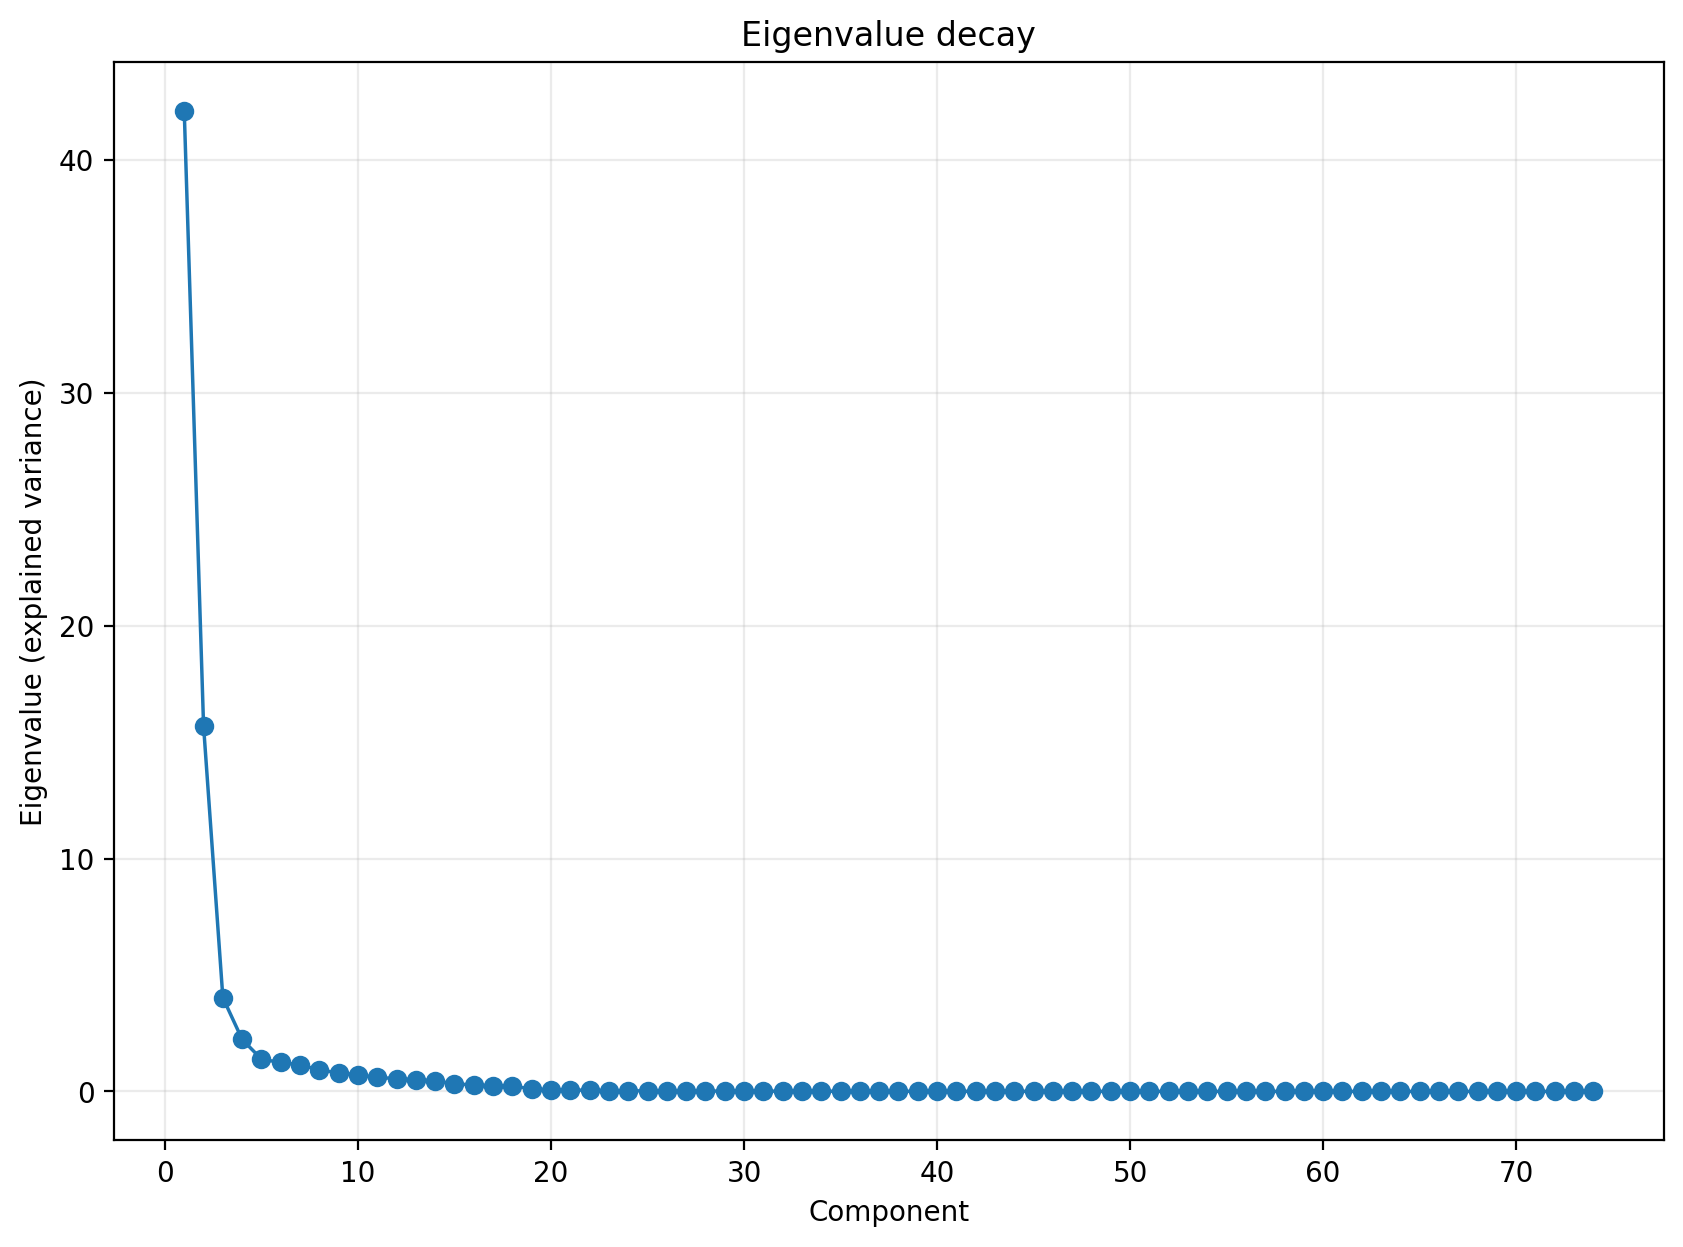
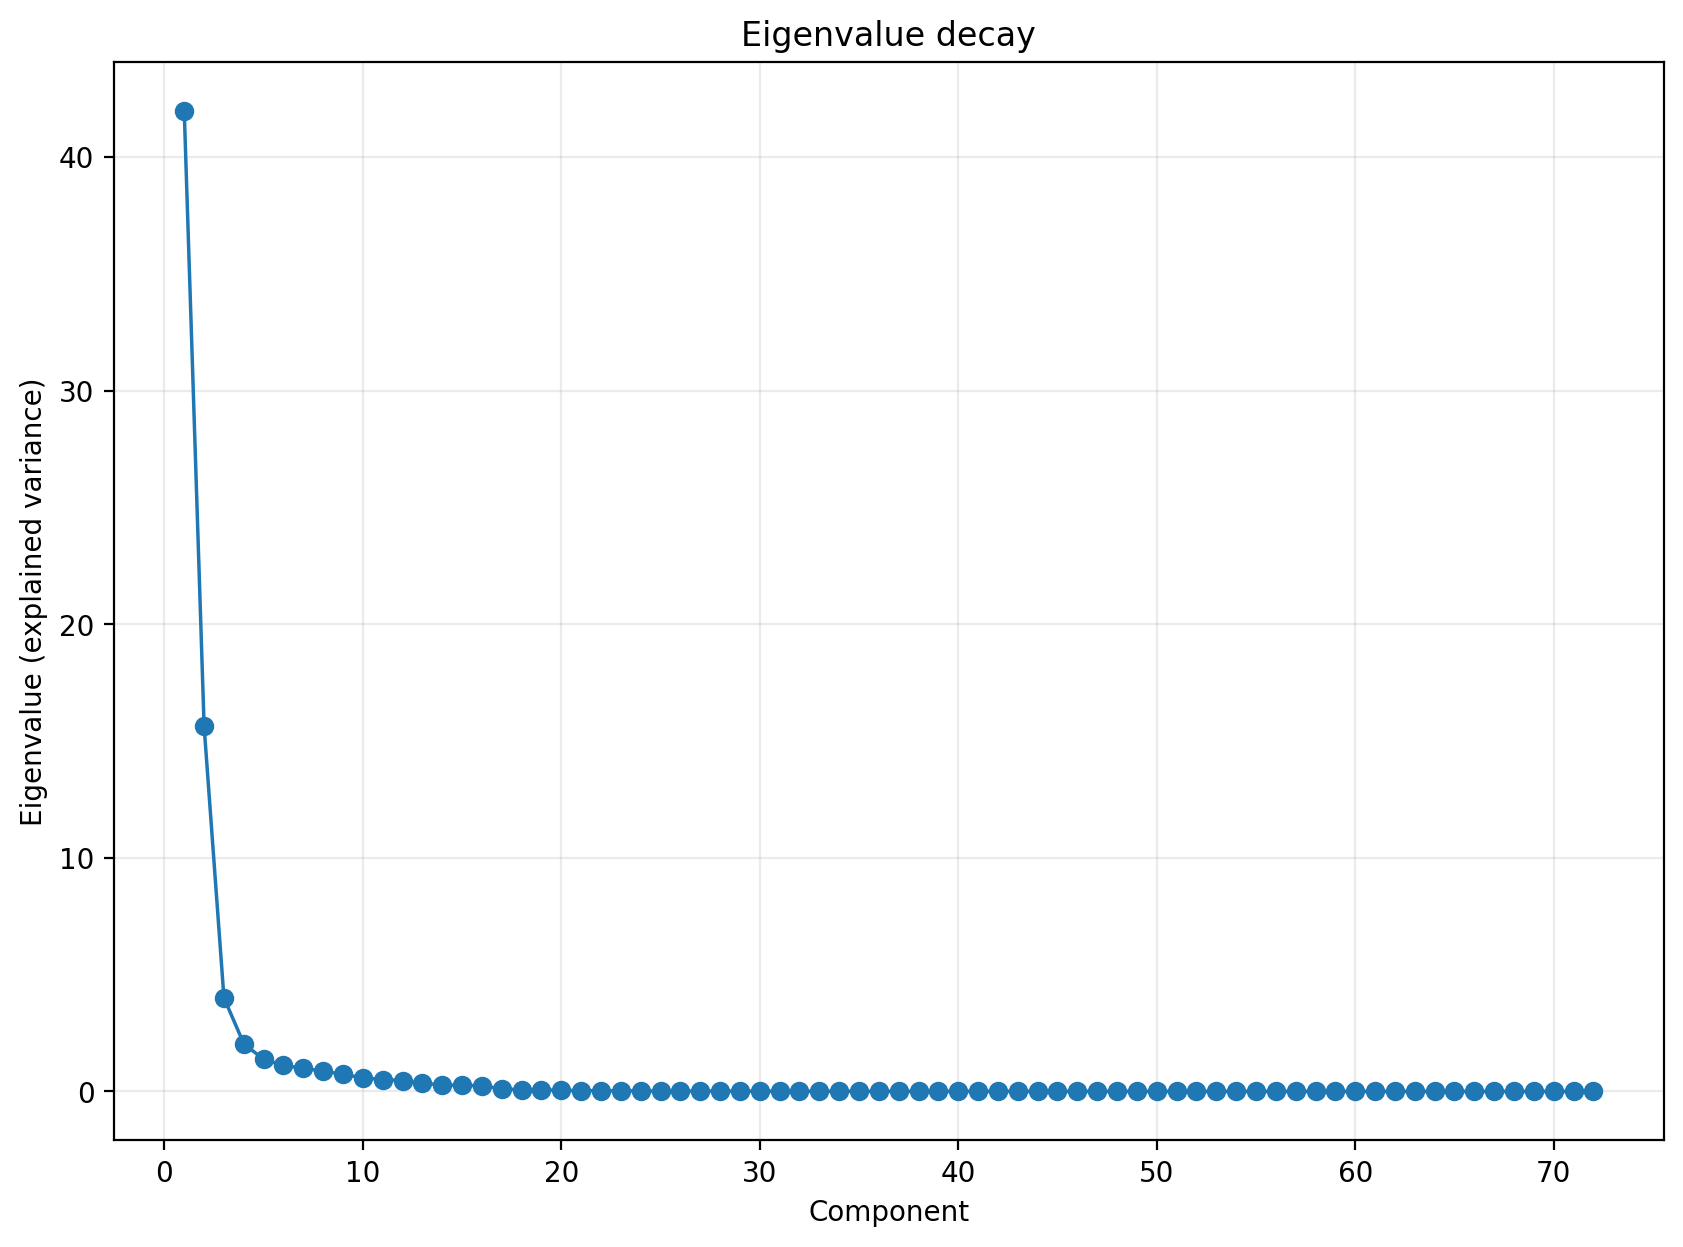
Added KernelPCA (or any sklearn PCA class) support to Encoder class.

diff --git a/preprocessing/encodings.py b/preprocessing/encodings.py
@@ -21,9 +21,9 @@ from typing import Any, Sequence
 
 from numpy.typing import NDArray
 
-from sklearn.decomposition import PCA 
+from sklearn.decomposition import PCA, KernelPCA  
+from sklearn.metrics import pairwise_distances
 from sklearn.preprocessing import StandardScaler 
-
 
 @dataclass(frozen=True)
 class View: 
@@ -130,9 +130,10 @@ class Encoder:
     def fit_pca(
             self, 
             *,
+            pca_class: Any | None = None,
             n_components: int | float | None = None,
             **pca_kwargs: Any
-    ) -> PCA:
+    ) -> Any:
         
         '''
         Fits sklearn PCA on X. 
@@ -144,9 +145,14 @@ class Encoder:
                 - float (in 0,1): variance fraction to retain 
             kwargs specific to PCA __init__
         '''
+        if pca_class is None: 
+            pca_class = PCA
 
         Xp = self._X_for_pca()
-        self.pca = PCA(n_components=n_components, **pca_kwargs)
+        self.pca = pca_class(n_components=n_components, **pca_kwargs)
+        if self.pca is None: 
+            raise TypeError("failed to pass PCA type, found none on encoder.pca")
+
         self.scores_ = np.asarray(self.pca.fit_transform(Xp), dtype=np.float64) 
         return self.pca 
 
@@ -188,6 +194,18 @@ class Encoder:
         return Encoder.broken_stick_expectation(
             int(self.explained_variance_ratio().shape[0])
         )
+
+    def kpca_lambdas(self) -> NDArray[np.float64]: 
+        m = self._require_pca() 
+        
+        if hasattr(m, "eigenvalues_"):
+            vals = getattr(m, "eigenvalues_")
+        elif hasattr(m, "lambdas_"):
+            vals = getattr(m, "lambdas_")
+        else: 
+            raise TypeError("current model is not KernelPCA-like")
+        
+        return np.asarray(vals, dtype=np.float64)
 
     # ------- Plots 
 
@@ -277,6 +295,76 @@ class Encoder:
         ax.set_title(title or "Broken-stick Test")
         return ax 
 
+    def plot_kpca_lambda(
+        self, 
+        *, 
+        ax=None, 
+        logy: bool = False, 
+        normalize: bool = False, 
+        title: str | None = None 
+    ): 
+        import matplotlib.pyplot as plt 
+
+        if ax is None: 
+            _, ax = plt.subplots(figsize=(10,7))
+
+        lam = self.kpca_lambdas()
+        y   = lam / lam.sum() if normalize and lam.sum() > 0 else lam 
+        x   = np.arange(1, y.shape[0] + 1)
+
+        ax.plot(x, y, marker="o", linewidth=1.25)
+        ax.set_xlabel("Component")
+        ax.set_ylabel("Normalized eigenvalues" if normalize else "Kernel eigenvalues")
+        if logy:
+            ax.set_yscale("log")
+
+        ax.grid(True, alpha=0.25)
+        ax.set_title(title or ("Kernel eigenvalue decay" + (" (normalied)" if normalize else "")))
+        return ax 
+
+    def plot_kpca_cumulative(
+        self, 
+        *, 
+        ax=None, 
+        threshold: float | None = 0.9, 
+        title: str | None = None 
+    ): 
+        import matplotlib.pyplot as plt 
+
+        if ax is None: 
+            _, ax = plt.subplots(figsize=(10,7))
+
+        lam   = self.kpca_lambdas()
+        total = float(lam.sum())
+        if total <= 0: 
+            raise ValueError("KernelPCA eigenvalues sum to <= 0. cannot form variance proxy")
+
+        r = lam / total 
+        x = np.arange(1, r.shape[0] + 1)
+        cum = np.cumsum(r)
+
+        ax.bar(x, r, alpha=0.5, label="KPCA Lambda Ratio")
+        ax.plot(x, cum, marker="o", linewidth=1.25, label="Cumulative")
+        ax.set_xlabel("Component")
+        ax.set_ylabel("Variance ratio")
+        ax.set_ylim(0.0, 1.05)
+        ax.grid(True, axis="y", alpha=0.25)
+
+        if threshold is not None: 
+            t = float(threshold)
+            if not (0.0 <= t <= 1.0):
+                raise ValueError("threshold must be in (0, 1]")
+
+            k = int(np.searchsorted(cum, t) + 1)
+            ax.axhline(t, linestyle="--", linewidth=0.8, color="green", alpha=0.8, 
+                       label=f"threshold {t:.0%}")
+            ax.axvline(k, linestyle="--", linewidth=0.8, color="red", alpha=0.7,
+                       label=f"k={k}")
+
+        ax.legend(frameon=False)
+        ax.set_title(title or "KernelPCA Lambda Ratio against Cumulative")
+        return ax 
+
     # ------- Private Helpers 
 
     def _X_for_pca(self, X: NDArray[np.float64] | None = None) -> NDArray[np.float64]: 
@@ -289,7 +377,7 @@ class Encoder:
             return np.asarray(self._scaler.transform(X_use), dtype=np.float64)
         return X_use 
 
-    def _require_pca(self) -> PCA: 
+    def _require_pca(self) -> Any: 
         if self.pca is None: 
             raise RuntimeError("PCA not fit, call fit_pca() first")
         return self.pca 
@@ -318,12 +406,20 @@ def main():
 
     dataset = load_climate_and_geospatial_unsupervised(
         filepath=project_path("data", "climate_geospatial.mat"),
-        include_coords=True,
+        include_coords=False,
         groups=("all",)
     )
 
-    encoder = Encoder(dataset=dataset, standardize=True)
-    encoder.fit_pca()
+    encoder  = Encoder(dataset=dataset, standardize=True)
+    
+    Xp = encoder._X_for_pca()
+    d = pairwise_distances(Xp, metric="euclidean")
+    med = np.median(d[d > 0])
+    gamma = 1.0 / (2.0 * med * med)
+
+    encoder.fit_pca(
+        pca_class=PCA, 
+    )
 
     image_dir = project_path("analysis", "images")
 
@@ -364,6 +460,34 @@ def main():
         bbox_inches="tight"
     ) 
     plt.close(fig)
+
+    encoder.fit_pca(
+        pca_class=KernelPCA,
+        kernel="rbf",
+        gamma=gamma, 
+        eigen_solver="auto", 
+        remove_zero_eig=True
+    )
+
+    fig, ax = plt.subplots(figsize=(10,7))
+    encoder.plot_kpca_lambda(ax=ax, logy=True)
+    fig.savefig(
+        project_path(image_dir, "kpca_lambda_decay.png"), 
+        dpi=200, 
+        bbox_inches="tight"
+    )
+    plt.close(fig)
+
+
+    fig, ax = plt.subplots(figsize=(10,7))
+    encoder.plot_kpca_cumulative(ax=ax, threshold=0.95) 
+    fig.savefig(
+        project_path(image_dir, "kpca_variance_proxy.png"), 
+        dpi=200, 
+        bbox_inches="tight"
+    )
+    plt.close(fig)
+
 
 if __name__ == "__main__":
     main() 
